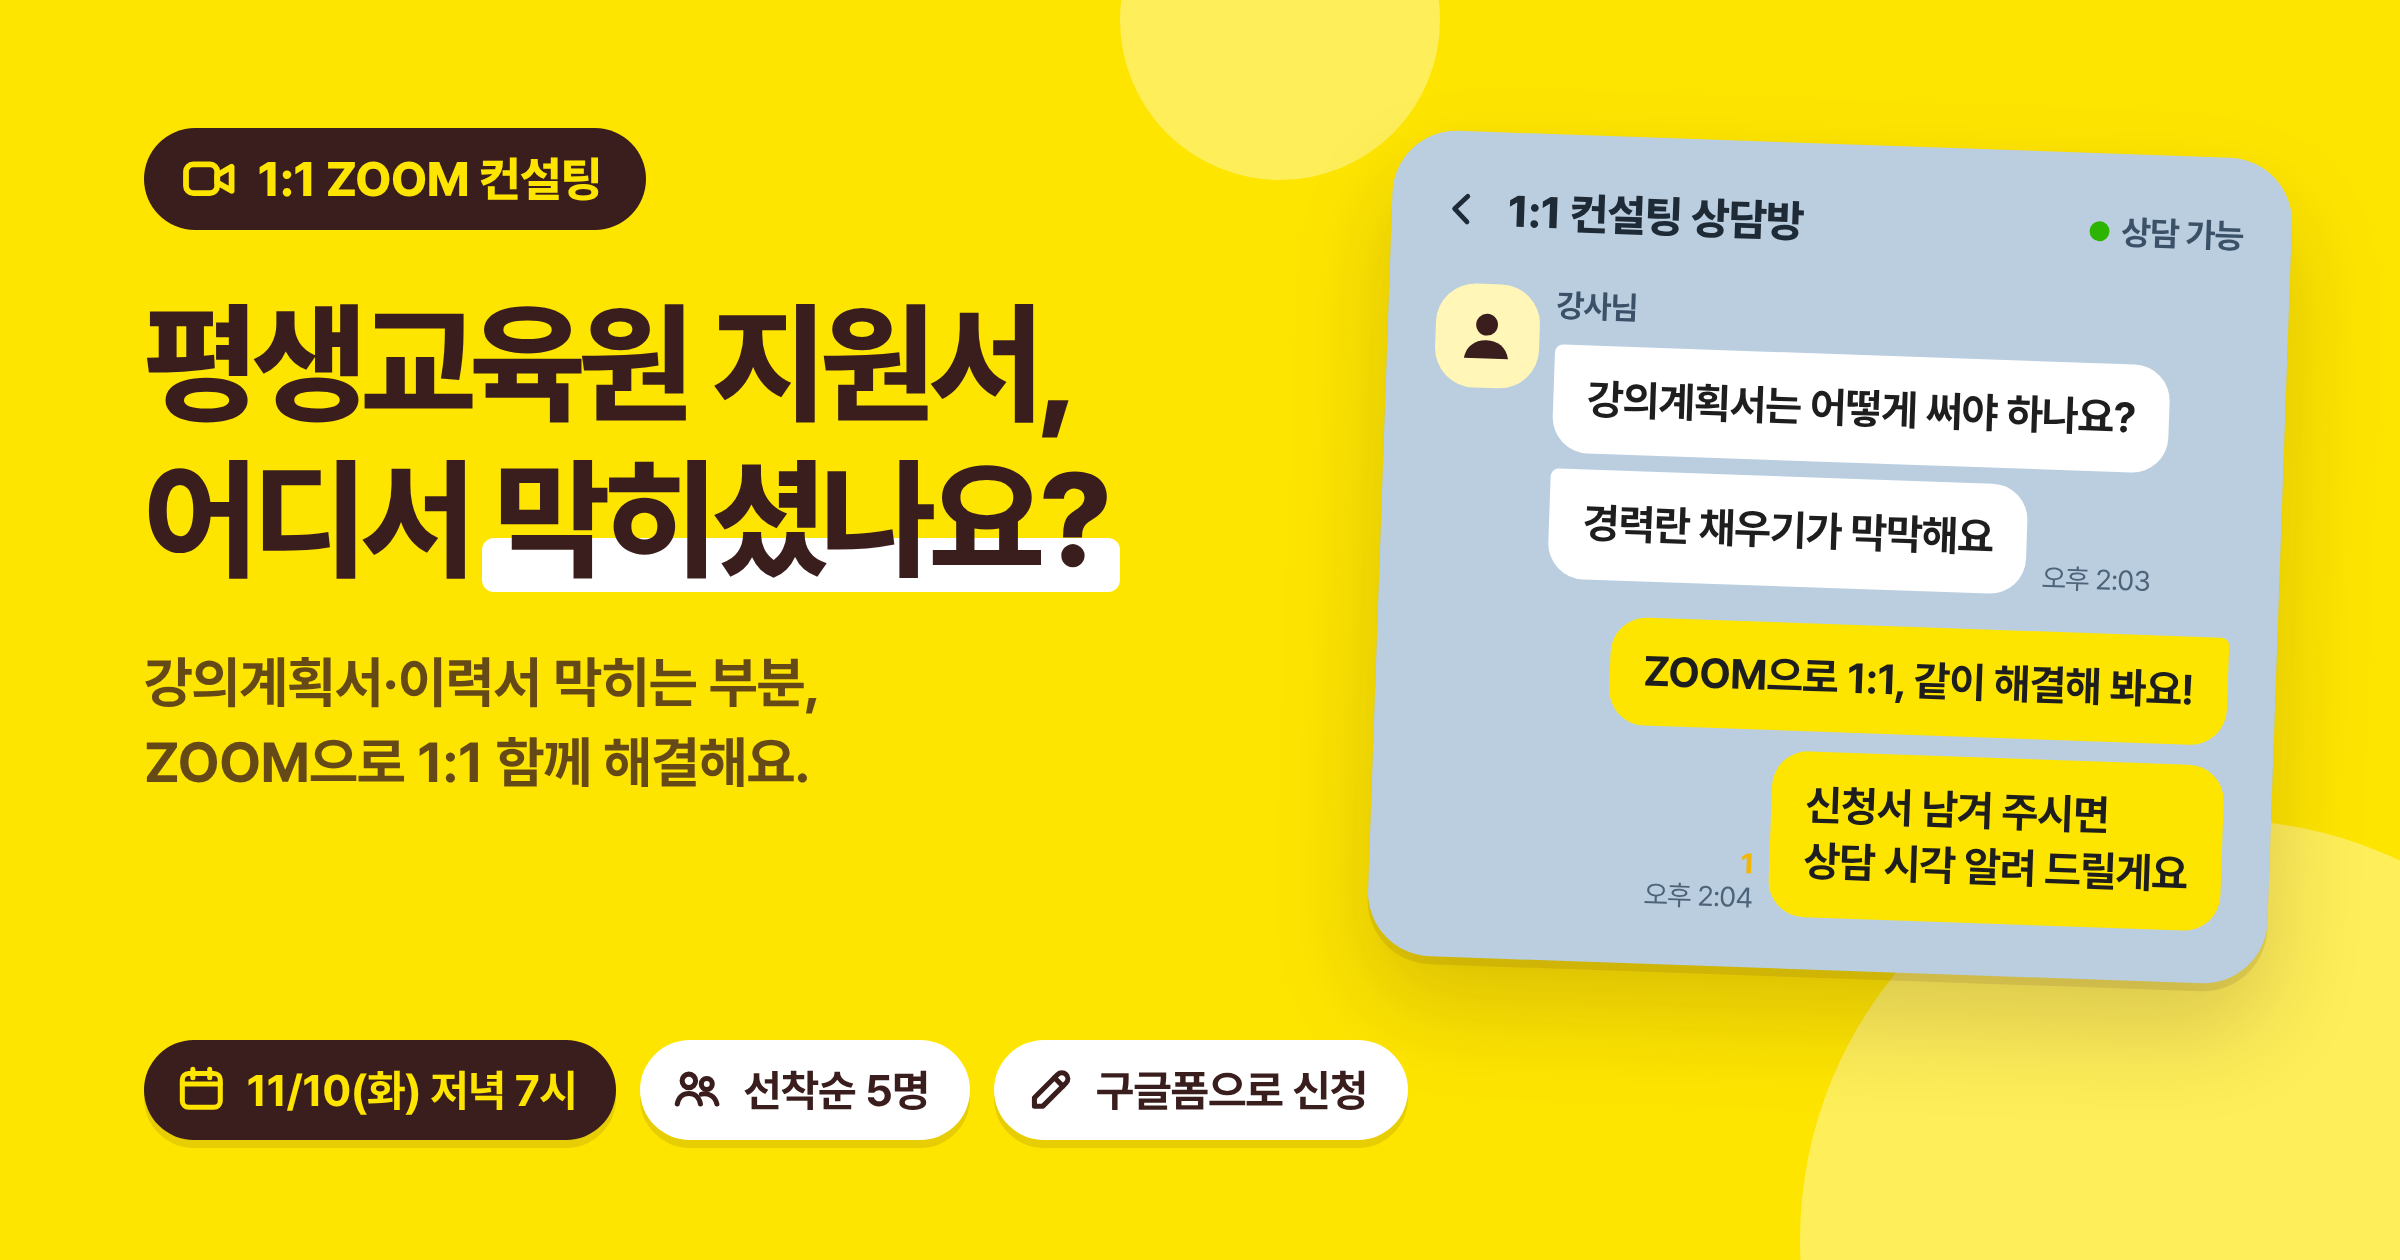
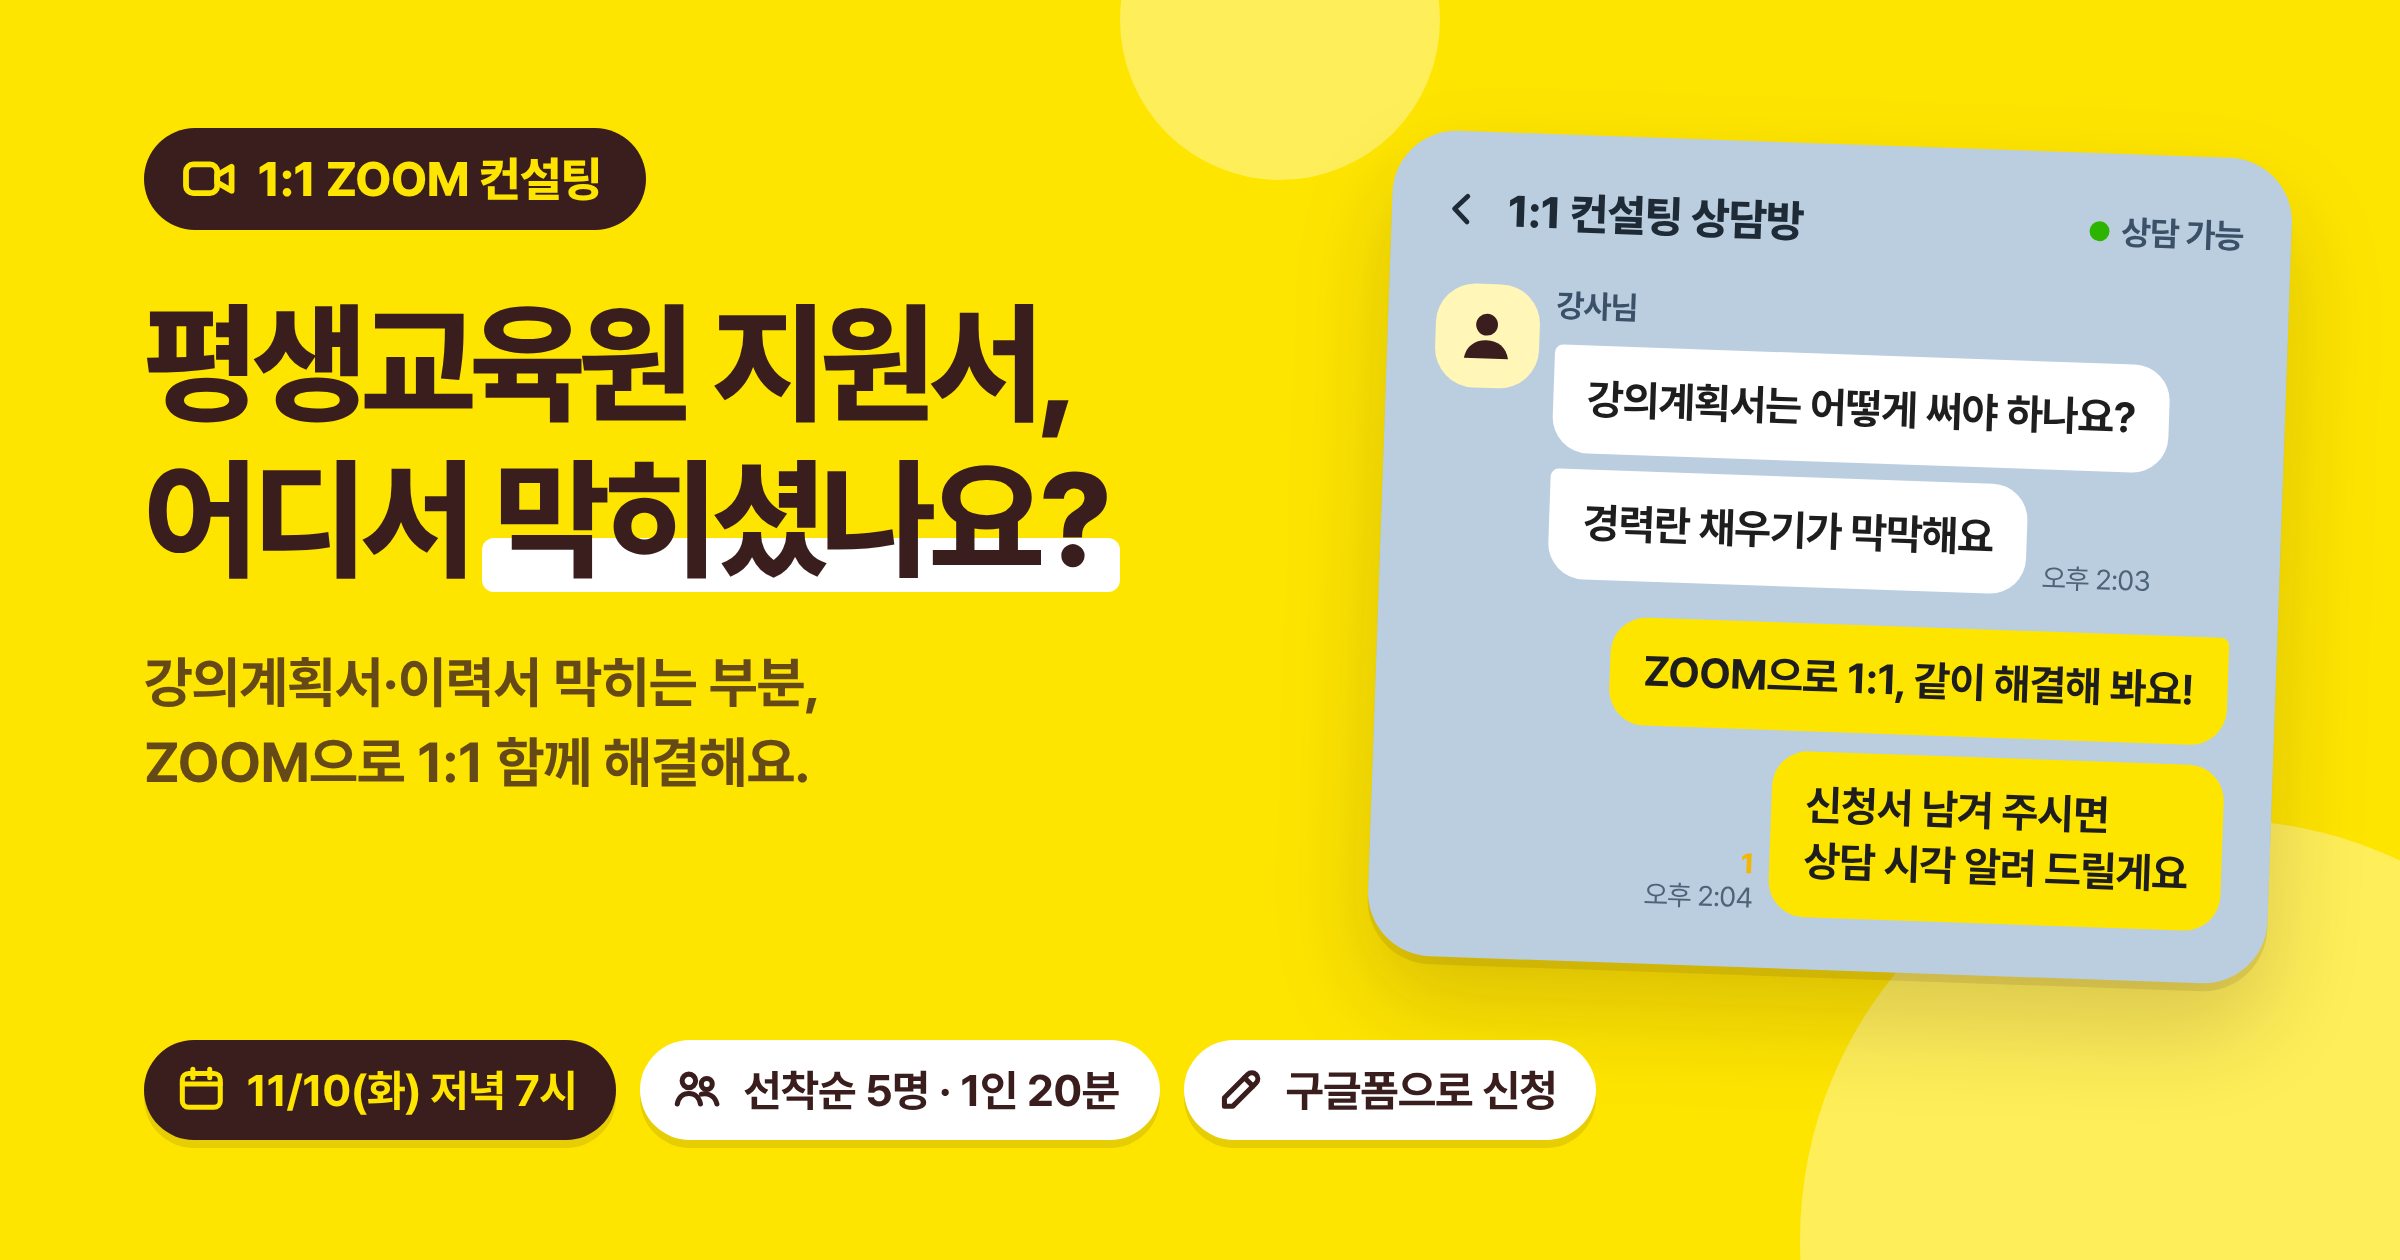
Set 20-minute sessions (19:00-20:40, 5 slots)
- Form offers the five exact 20-minute slots plus "any time"
- Thumbnail chip and README post show 1인 20분

Claude-Session: https://claude.ai/code/session_01G4atFpUHmW2HB8yGsukK2u

Changed region(s): [[0.375, 0.8048, 0.6875, 0.9286]]

diff --git a/promo/zoom-consulting/thumbnail.html b/promo/zoom-consulting/thumbnail.html
@@ -173,7 +173,7 @@ h1 em::after {
     </span>
     <span class="chip">
       <svg width="1.15em" height="1.15em" viewBox="0 0 24 24" fill="none" stroke="currentColor" stroke-width="2.4" stroke-linecap="round" stroke-linejoin="round"><circle cx="8" cy="8" r="3.2"/><circle cx="16.5" cy="9.5" r="2.6"/><path d="M2.5 19c.6-3.3 2.8-5 5.5-5s4.9 1.7 5.5 5M14 14.3c2.9-.6 6.4.6 7.3 4.7"/></svg>
-      선착순 5명
+      선착순 5명 · 1인 20분
     </span>
     <span class="chip">
       <svg width="1.15em" height="1.15em" viewBox="0 0 24 24" fill="none" stroke="currentColor" stroke-width="2.4" stroke-linecap="round" stroke-linejoin="round"><path d="M4 20h4L19 9a2.8 2.8 0 0 0-4-4L4 16z"/><path d="M13.5 6.5l4 4"/></svg>

diff --git a/promo/zoom-consulting/README.md b/promo/zoom-consulting/README.md
@@ -24,7 +24,7 @@
 1. **기본 정보**: 성함, 휴대폰 번호(형식 검사), 이메일(형식 검사)
 2. **지원하려는 곳과 강좌**: 기관 유형(대학 부설·평생학습관·주민센터 등), 개설하고 싶은 강좌, 지원 상황, 마감일(선택), 강의 경력
 3. **막히는 부분**: 이력서, 자기소개서, 강의계획서, 강좌 소개글, 수강료·재료비, 증빙 서류 등(복수 선택), 상담 때 이야기하고 싶은 내용(선택)
-4. **희망 일정**: 11월 10일(화) 저녁 가능한 시간대(7시대·8시대·9시 이후), ZOOM 사용 경험, 알게 된 경로(선택)
+4. **희망 일정**: 11월 10일(화) 저녁 20분 타임 5개(19:00~20:40) 중 가능한 시간, ZOOM 사용 경험, 알게 된 경로(선택)
 5. **개인정보 수집·이용 동의** (필수)
 
 ## 썸네일 다시 만들기
@@ -51,7 +51,7 @@ node promo/zoom-consulting/render.cjs
 > - 지원했는데 떨어져서 무엇을 고쳐야 할지 궁금한 분
 >
 > ■ 일정: 11월 10일(화) 오후 7시부터
-> ■ 진행 방식: ZOOM 온라인 1:1, 신청 순서대로 한 분씩 (약 ○○분)
+> ■ 진행 방식: ZOOM 온라인 1:1, 1인 20분 (19:00 ~ 20:40)
 > ■ 모집 인원: 선착순 5명 (5명이 차면 신청서가 자동으로 마감됩니다)
 >
 > ■ 신청 방법: 아래 신청서를 작성해 주세요. 확인 후 개별 연락으로 상담 시각과 ZOOM 링크를 보내 드립니다.
